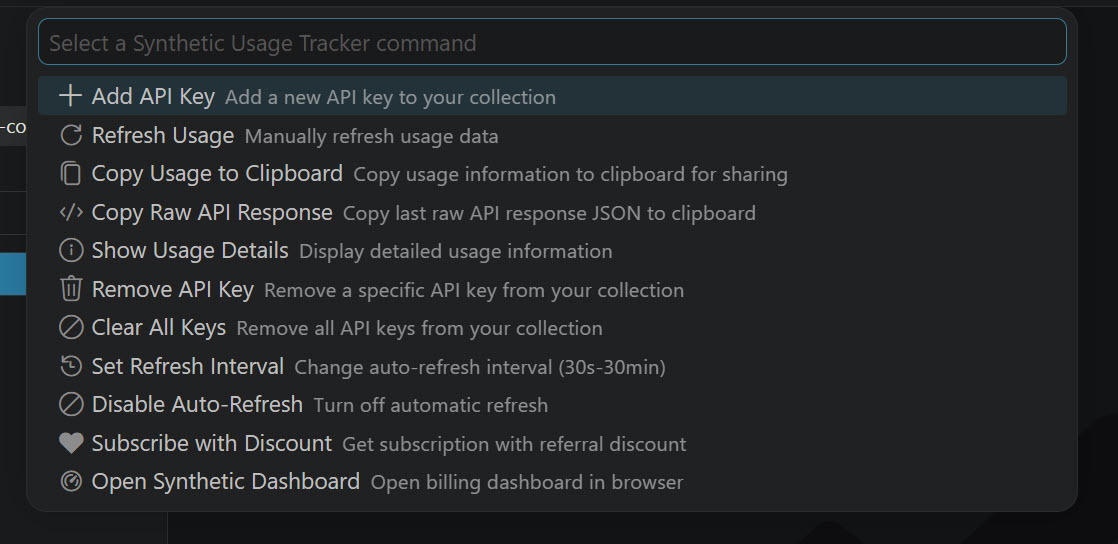
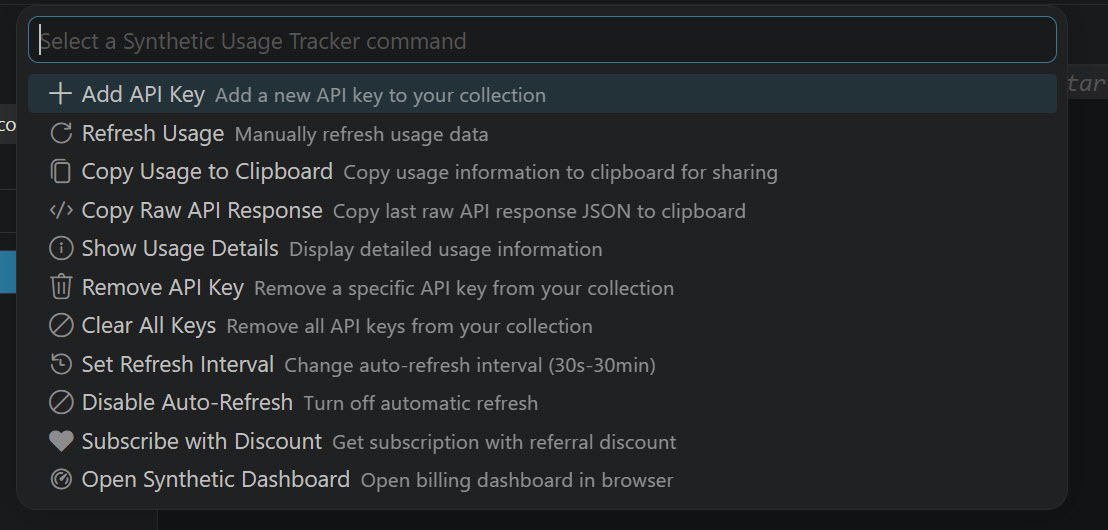
~ [ update readme with usage guides and screenshots ]:
📝 docs(readme): update quota display and guidance icon

- update quota values for energy, guidance, and mana usage
- change guidance icon emoji to 🔮 to match tooltip
- add updated UI screenshots for commands, details, and statusbar-tooltip

diff --git a/README.md b/README.md
@@ -201,33 +201,31 @@ Hover over the status bar to see detailed category breakdowns with visual progre
 ### Synthetic.new Usage Details
 
 ## ⚡ Energy
-Requests: 248.667 / 600 (41.4% remaining)
-Used: 351.333 (58.6%)
+Requests: 192 / 600 (32.0% remaining)
+Used: 408 (68.0%)
 Renews: 3/27/2026, 5:00:55 AM
-Time: 2h 22m from now
-⚡[████░░░░░░] 41%
+Time: 2h 4m from now
+⚡[███░░░░░░░] 32%
 
-## 🧪 Guidance (hourly)
+## 🔮 Guidance (hourly)
 Searches: 250 / 250 (100.0% remaining)
 Used: 0 (0.0%)
-Renews: 3/27/2026, 3:38:43 AM
+Renews: 3/27/2026, 3:56:07 AM
 Time: 59m from now
-🧪[██████████] 100%
+🔮[██████████] 100%
 
 ### 🧪 Mana (token)
-Remaining: 78.709 / 100 (78.7%)
-Used: 21.291 (21.3%)
-🧪[████████░░] 79%
+Remaining: 76.849 / 100 (76.8%)
+Used: 23.151 (23.2%)
+🧪[████████░░] 77%
 
 ━━━━━━━━━━━━━━━━
 API Key: syn_****************************4eb6
-Timestamp: 2026-03-27T06:38:48.256Z
+Timestamp: 2026-03-27T06:56:41.448Z
 ```
 
 - `█` (filled block): Represents used quota
 - `░` (empty block): Represents remaining quota
-- `🔍` (search emoji): Appears when search.hourly quota exceeds 80%
-- `🔧` (wrench emoji): Appears when free tool calls quota exceeds 80%
 
 ### Quota Warning Symbols
 
